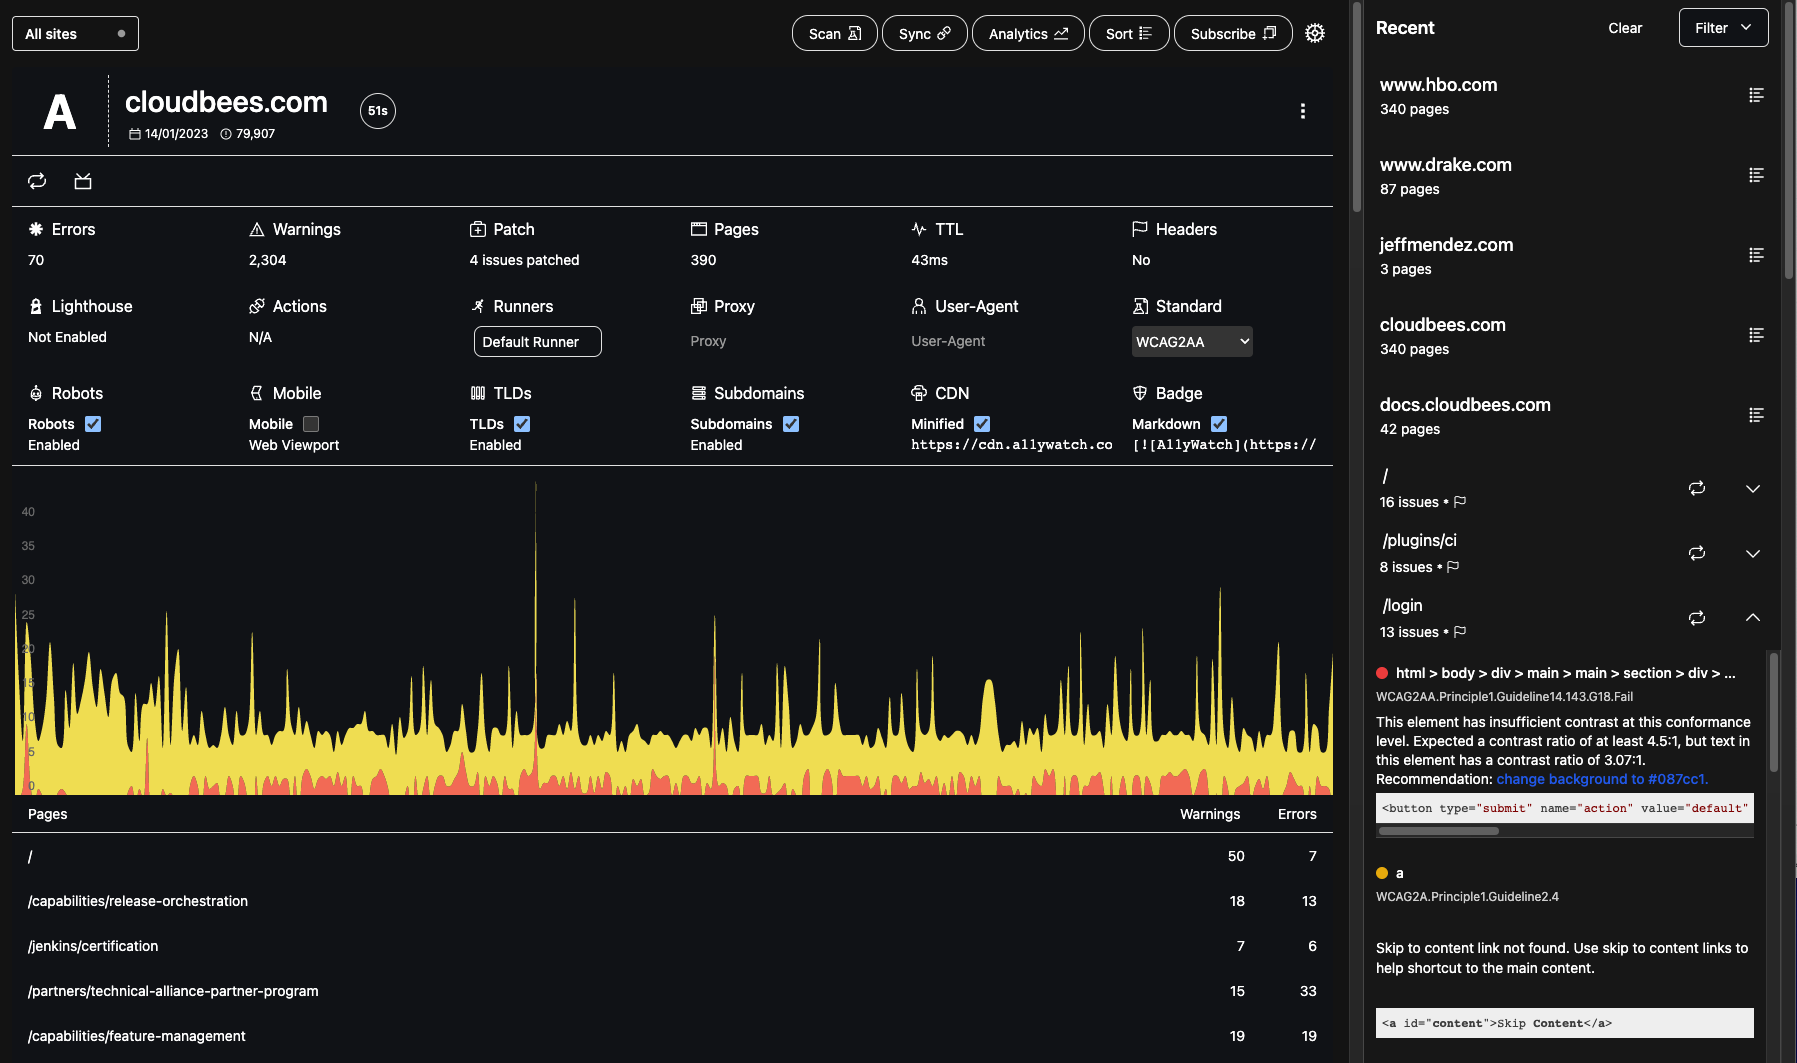
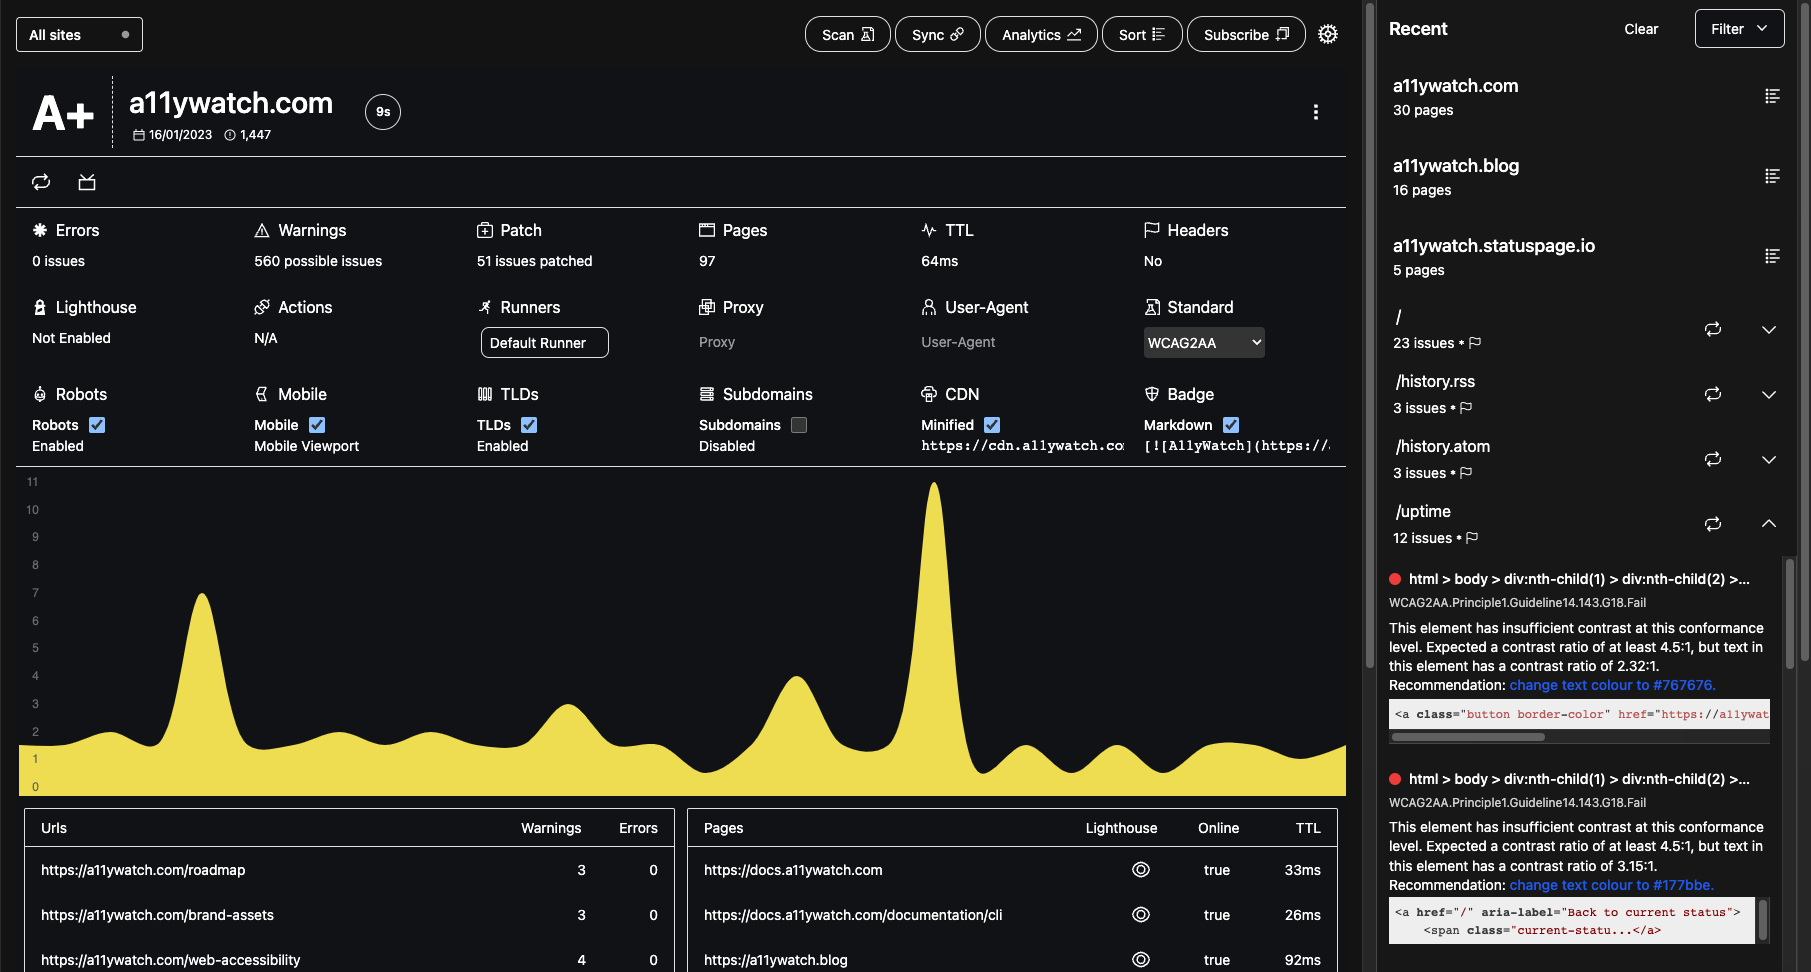
chore(intro): add updated dashboard example

diff --git a/src/components/stateless/marketing/intro-rest.tsx b/src/components/stateless/marketing/intro-rest.tsx
@@ -31,19 +31,16 @@ function MarketingIntro({
           <div>
             <p className='text-base '>
               A11ywatch provides powerful tools for testing web inclusivity
-              correctly so you can build better software. We created a smart
-              safeguard that prevents drastic issues across your websites
-              without hurting SEO and without overlays. Our system is constantly
-              improving web accessibility test coverage, efficiency & speed, and
-              other integrations that help productivity.
+              correctly so you can build better software. Our system is
+              constantly improving web accessibility test coverage, efficiency &
+              speed, and other integrations that help productivity.
             </p>
             <p className='text-base py-1 '>
               Gain confidence across every step with robust solutions like{' '}
               <strong>
                 embed scripts, automated workflows, API access, and much more
               </strong>
-              . Add custom actions and authentication for different use cases
-              easy.
+              .
             </p>
           </div>
         )}

diff --git a/src/components/stateless/marketing/dashboard.tsx b/src/components/stateless/marketing/dashboard.tsx
@@ -15,9 +15,9 @@ export function MarketingDashboard(): ReactElement<any, any> | null {
         <div className='py-4'>
           <LazyMount>
             <ThemedImage
-              width={1797}
+              width={1808}
               className={'shadow border rounded'}
-              height={1063}
+              height={972}
               quality={100}
               src={'/img/dashboard-example.png'}
               srcDark={'/img/dark_dashboard-example.png'}

diff --git a/src/components/stateless/marketing/features-compare.tsx b/src/components/stateless/marketing/features-compare.tsx
@@ -163,7 +163,7 @@ function Feature() {
             <TableRow
               rows={[
                 'Average pages tested per 10$ spent',
-                '2,500-5,000 daily',
+                '8,000-15,000 daily',
                 '100',
                 '10-75?',
               ]}

diff --git a/src/components/general/blocks/score.tsx b/src/components/general/blocks/score.tsx
@@ -4,9 +4,6 @@ const determineScore = (score?: number) => {
   if (typeof score === 'undefined') {
     return 'N'
   }
-  if (score === 100) {
-    return 'S'
-  }
   if (score >= 95) {
     return 'A+'
   }
